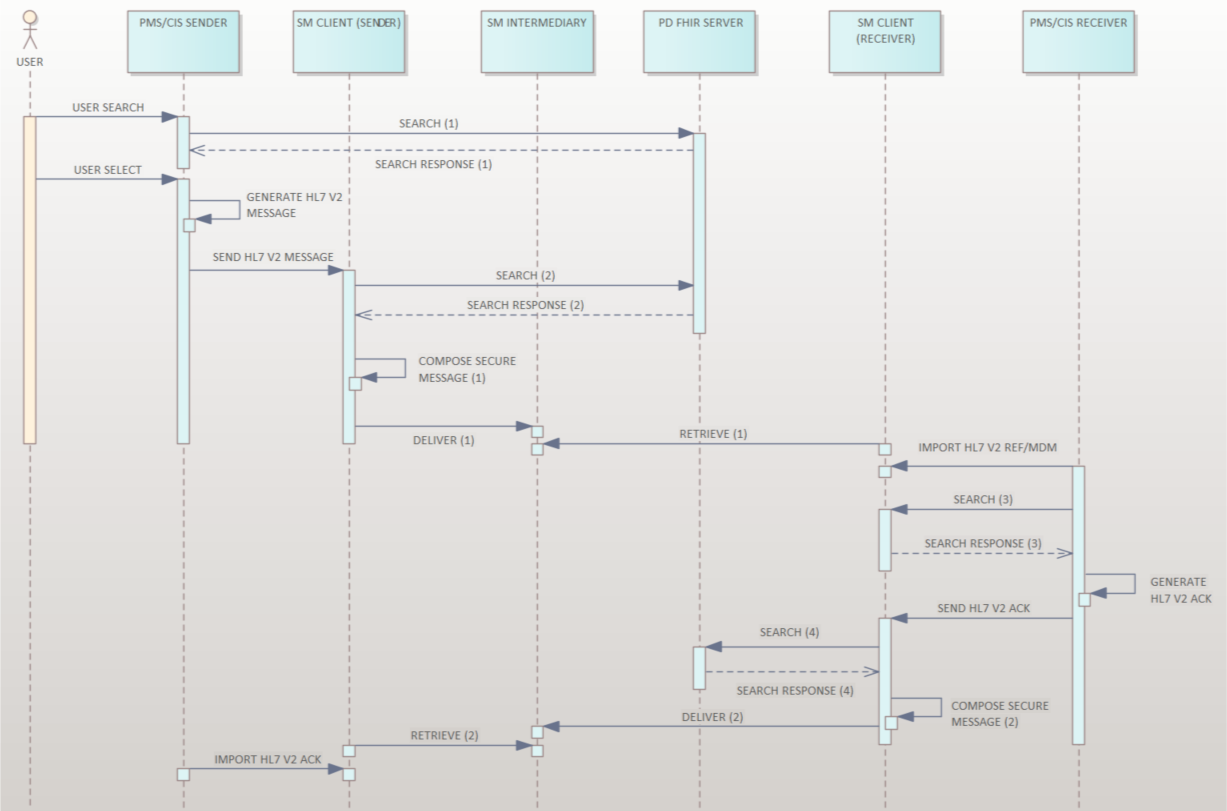
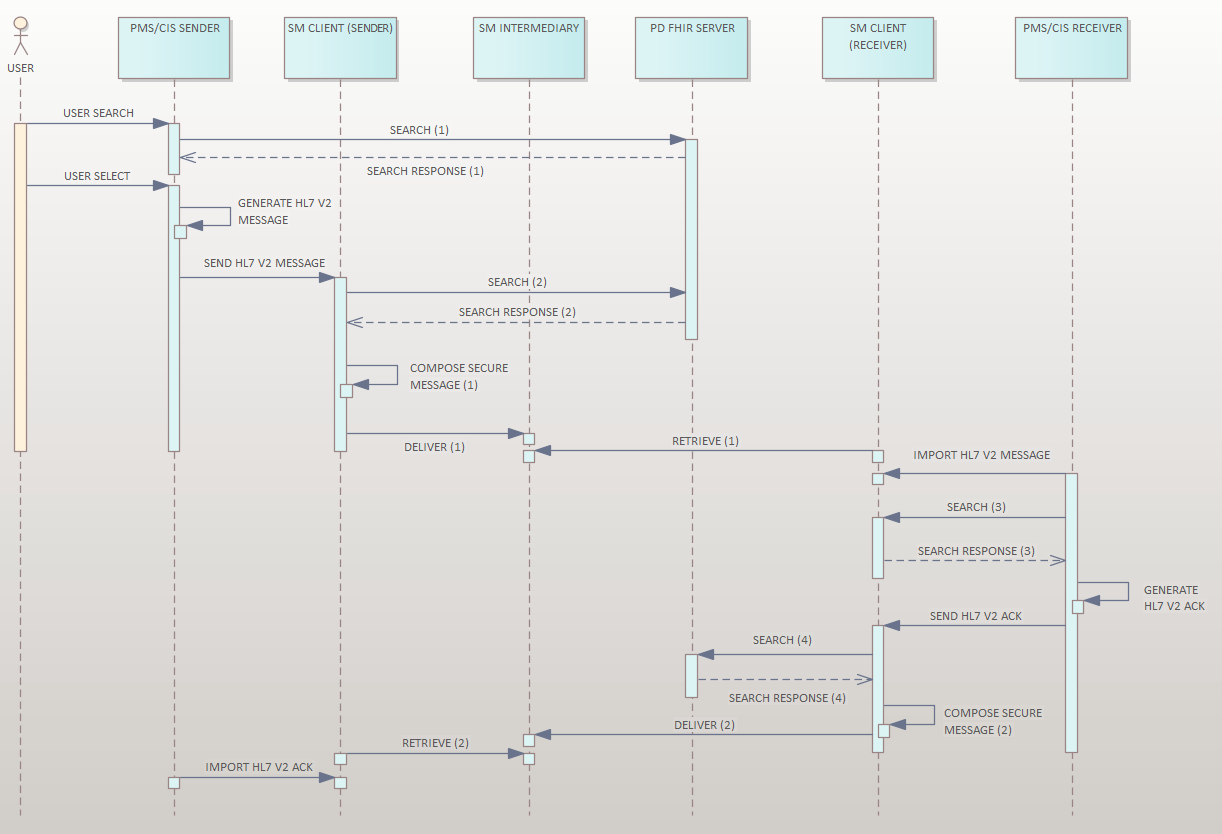
Further guidance updates
Included endpoint scenarios as per issue #11
Included location relationships as per issue #10  and #12

diff --git a/pages/_includes/guidance.md b/pages/_includes/guidance.md
@@ -15,12 +15,16 @@ Searching for suitable [PractitionerRole](StructureDefinition-au-pd-practitioner
 
 In this usage the [PractitionerRole](StructureDefinition-au-pd-practitionerrole.html) and [HealthcareService](StructureDefinition-au-pd-healthcareservice.html) resources are related to Endpoints (containing service connection details, such as secure messaging) and this allows communications to be made to a practitioner (in a role) or healthcare service based on the content of the associated Endpoint resource used.
 
+<br/>
+<br/>
+
 ## Provider Directory Service Roles
 
 This implementation guide is defined to allow multiple consumer systems to call multiple provider directory services reliably with a consistent interface and available data support.  
 
+### Provider Directory Supplier
 
-**Provider Directory Supplier** implementations are server software systems that supply a provider directory service interface and data.
+Provider Directory Supplier implementations are server software systems that supply a provider directory service interface and data.
 
 ```
 SRV01 Servers SHALL be capable of providing all resource types included in this guide.
@@ -31,22 +35,25 @@ SRV02 Servers SHALL be capable of providing all profile data elements marked as 
 ```
 
 ```
-SRV03 Servers SHALL comply to AU Provider Directory Implmementation Guide, AU Base Implmementation Guide and FHIR R4 core constraints for all resource instances.
+SRV03 Servers SHALL comply to AU Provider Directory Implementation Guide, AU Base Implementation Guide and FHIR R4 core constraints for all resource instances.
 ```
 
 ```
-SRV04 Servers SHALL be capable of responding meaningfully to all search requests (in each resource definiition) that are marked as MUST SUPPORT.
+SRV04 Servers SHALL be capable of responding meaningfully to all search requests (in each resource definition) that are marked as MUST SUPPORT.
 ```
 
 ```
-SRV05 Servers MAY be capable of responding to search requests (in each resource definiition) that are marked as OPTIONAL.
+SRV05 Servers MAY be capable of responding to search requests (in each resource definition) that are marked as OPTIONAL.
 ```
 
 ```
 SRV06 Servers MAY be capable of responding to other search requests that are FHIR core compliant OR custom searches (defined using CapabilityStatement supplied by the server).
 ```
+<br/>
 
-**Provider Directory Consumer** implementations are client software systems that call provider directory services and consume data.
+### Provider Directory Consumer 
+
+Provider Directory Consumer implementations are client software systems that call provider directory services and consume data.
 
 ```
 CLI01 Clients SHALL support meaningful consumption of all data elements marked as MUST SUPPORT.
@@ -57,7 +64,7 @@ CLI02 Clients SHALL allow receipt of the all resource types in this guide.
 ```
 
 ```
-CLI03 Clients SHALL allow receipt of resource instances that are valid according to the AU Provider Directory Implmementation Guide, AU Base Implmementation Guide and FHIR R4 core  core compliant elements not defined in this guide.
+CLI03 Clients SHALL allow receipt of resource instances that are valid according to the AU Provider Directory Implementation Guide, AU Base Implementation Guide and FHIR R4 core compliant elements not defined in this guide.
 ```
 
 ```
@@ -84,13 +91,40 @@ The [PractitionerRole](StructureDefinition-au-pd-practitionerrole.html) is used 
 <br/>
 <br/>
 
+### Endpoint Scenarios
+Given the implementation guide allows Endpoints to be referenced from PractitionerRoles, HealthcareServices and Locations, clarity is required as to what it means for an Endpoint to be referenced from each of these entities, and where a client should look for an endpoint. 
+
+```
+REL01 If a PractitionerRole is reachable through an Endpoint, the PractitionerRole MUST explicitly reference that Endpoint.
+```
+
+```
+REL02 Clients wishing to address a message to a PractitionerRole MUST use an Endpoint directly referenced by that PractitionerRole.
+```
+
+```
+REL03 Clients wishing to address a message to a HealthcareService MUST use an Endpoint directly referenced by that HealthcareService.
+```
+
+```
+REL04 Clients cannot assume that a PractitionerRole is reachable through an Endpoint referenced by the HealthcareService – unless the Endpoint is also directly referenced by the PractitionerRole.
+```
+<br/>
+
+### Location Relationships
+- Endpoints referenced from a Location are used to communicate with the Location itself (e.g. the building management), and not the HealthcareService or PractitionerRole at that Location.
+
+- Hours of operation at a Location are for the Location itself rather than the times any HealthcareService or PractitionerRole is available. Directory clients should be using the HealthcareService or PractitionerRole available times.
+
+<br/>
+<br/>
 
 ## Provider Directory Usage Sequence for Secure Messaging
 
 Typical sequence describing endpoint search, HL7 V2 generation, secure message composition, secure message delivery via intermediary, acknowledgement response addressing, generation and delivery.
 	
 <div>
-<img src="assets/images/sequence2.png"/>
+<img src="assets/images/sequence2.png" width="1200" height="800"/>
 </div>
 <br/>
 <br/>

diff --git a/pages/_includes/federation.md b/pages/_includes/federation.md
@@ -3,7 +3,7 @@
 ## Description
 
 Multiple directory service sources (operating FHIR services under this implementation guide) may be combined to offer a federated service capability by suppliers. 
-This allows searches by client systems to be supported accross multiple directory service sources.  This allows directory entries to be provided to client systems that
+This allows searches by client systems to be supported across multiple directory service sources.  This allows directory entries to be provided to client systems that
 can be used to generate secure messages that can be exchanged via a preferred secure messaging provider to another secure messaging provider preferred by the receiving 
 client system. 
 
@@ -32,7 +32,7 @@ FED01 Directory service source providers SHALL supply adequate core registration
 |---|---||
 |Name|A user-friendly description of the registered server e.g. Argus Directory|
 |Contact Details|Details of who to contact for support issues|
-|Enpoint URL|The URL of the server to send federated requests to (base URL of the FHIR server) (this should also be used as the issuer in the identity JWT)|
+|Endpoint URL|The URL of the server to send federated requests to (base URL of the FHIR server) (this should also be used as the issuer in the identity JWT)|
 |Authentication Details|Any details required to authenticate to the server e.g. API key (simple fixed value), authorization header (fixed/long living bearer token), client ID/secret (OAuth details)|
 |Vendor Thumbprint|The thumbprint of the certificate to use to connect to the vendor|
 |Id Prefix|Suitable prefix that may be prepended to all id fields to make unique|
@@ -53,7 +53,7 @@ FED03 Federating directory services SHALL supply a CapabilityStatement conforman
 * The federator shall comply with core requirements as defined in the capability statements section of this implementation guide.
 
 ```
-FED04 Paging of directory service results MUST be supported by client systems
+FED04 Paging of directory service results MUST be supported by client and server systems
 ```
 * Paging (next page continuation) may be used by federators to allow responses to be provided before all source systems have provided results to the federator (performance).
 * Client systems must allow paging links supplied to be used by either automatic background calls to obtain next page or manual next page selection by user on search results.
